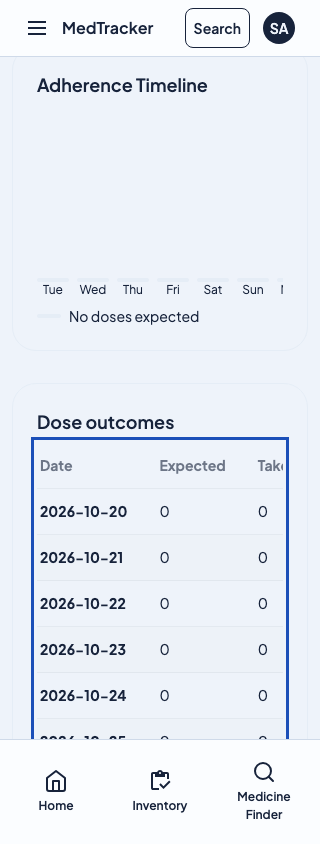
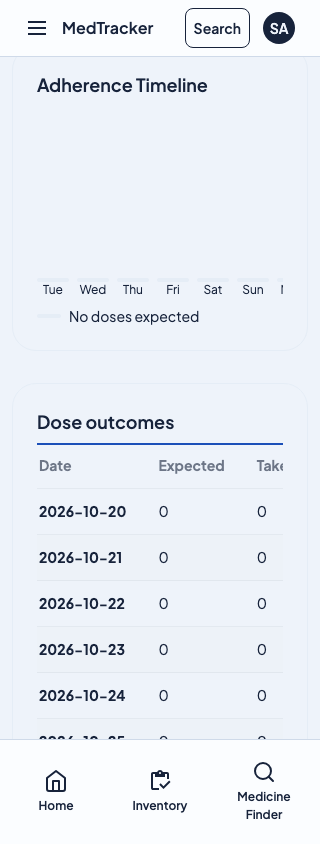
fix(ui): remove the outer table focus frame

diff --git a/assets/views/reports/index.html b/assets/views/reports/index.html
@@ -47,7 +47,7 @@
   </section>
   <section class="card bg-base-100 border border-base-300" aria-labelledby="daily-title">
     <div class="card-body"><h2 class="card-title" id="daily-title">{{ labels.reports.health_history.outcomes.title }}</h2>
-      <div class="overflow-x-auto" role="region" aria-labelledby="daily-title" tabindex="0"><table class="table table-zebra"><thead><tr><th scope="col">{{ labels.reports.health_history.outcomes.date }}</th><th scope="col">{{ labels.reports.health_history.outcomes.expected }}</th><th scope="col">{{ labels.reports.health_history.outcomes.taken }}</th><th scope="col">{{ labels.reports.health_history.outcomes.not_taken }}</th><th scope="col">{{ labels.reports.health_history.outcomes.unexplained_missed }}</th></tr></thead><tbody>{% for day in report.daily_outcomes %}<tr><th scope="row" class="whitespace-nowrap">{{ day.date }}</th><td>{{ day.expected }}</td><td>{{ day.actual }}</td><td>{{ day.not_taken }}</td><td>{{ day.unexplained_missed }}</td></tr>{% else %}<tr><td colspan="5">{{ labels.reports.health_history.empty_section }}</td></tr>{% endfor %}</tbody></table></div>
+      <div class="table-scroll overflow-x-auto" role="region" aria-labelledby="daily-title" tabindex="0"><table class="table table-zebra"><thead><tr><th scope="col">{{ labels.reports.health_history.outcomes.date }}</th><th scope="col">{{ labels.reports.health_history.outcomes.expected }}</th><th scope="col">{{ labels.reports.health_history.outcomes.taken }}</th><th scope="col">{{ labels.reports.health_history.outcomes.not_taken }}</th><th scope="col">{{ labels.reports.health_history.outcomes.unexplained_missed }}</th></tr></thead><tbody>{% for day in report.daily_outcomes %}<tr><th scope="row" class="whitespace-nowrap">{{ day.date }}</th><td>{{ day.expected }}</td><td>{{ day.actual }}</td><td>{{ day.not_taken }}</td><td>{{ day.unexplained_missed }}</td></tr>{% else %}<tr><td colspan="5">{{ labels.reports.health_history.empty_section }}</td></tr>{% endfor %}</tbody></table></div>
     </div>
   </section>
   {% if report.cycle_summaries | length > 0 %}<section class="card bg-base-100 border border-base-300" aria-labelledby="cycles-title"><div class="card-body"><h2 class="card-title" id="cycles-title">{{ labels.reports.health_history.cycles.title }}</h2><p>{{ labels.reports.health_history.cycles.description }}</p><div class="overflow-x-auto"><table class="table table-zebra"><thead><tr><th scope="col">{{ labels.reports.health_history.cycles.window }}</th><th scope="col">{{ labels.reports.health_history.medication_takes.person }}</th><th scope="col">{{ labels.reports.health_history.medication_takes.medication }}</th><th scope="col">{{ labels.reports.health_history.outcomes.expected }}</th><th scope="col">{{ labels.reports.health_history.outcomes.taken }}</th><th scope="col">{{ labels.reports.health_history.outcomes.not_taken }}</th><th scope="col">{{ labels.reports.health_history.outcomes.unexplained_missed }}</th></tr></thead><tbody>{% for row in report.cycle_summaries %}<tr><th scope="row">{{ row.window_starts_on }} – {{ row.window_ends_on }}</th><td>{{ row.person_name }}</td><td>{{ row.medication_name }}</td><td>{{ row.expected }}</td><td>{{ row.actual }}</td><td>{{ row.not_taken }}</td><td>{{ row.unexplained_missed }}</td></tr>{% endfor %}</tbody></table></div></div></section>{% endif %}

diff --git a/assets/static/css/app.css b/assets/static/css/app.css
@@ -36,6 +36,8 @@ body:has(.app-navigation-panel[open]) { overflow: hidden; }
 .palette-choice[aria-pressed="true"], [data-appearance-choice][aria-pressed="true"] { outline: 2px solid var(--ring); outline-offset: 2px; }
 .palette-swatch { display: block; width: 1.25rem; height: 1.25rem; border-radius: 50%; background: var(--palette-color); border: 1px solid var(--border-color); }
 :focus-visible { outline: 3px solid var(--ring); outline-offset: 3px; }
+.table-scroll:focus-visible { outline: none; box-shadow: inset 0 2px 0 var(--ring); }
+@media (forced-colors: active) { .table-scroll:focus-visible { outline: 2px solid Highlight; outline-offset: 0; } }
 .skip-link { position: absolute; left: 1rem; top: -5rem; z-index: 100; padding: 0.75rem; background: var(--card); color: var(--foreground); }
 .skip-link:focus { top: 1rem; }
 [hidden] { display: none !important; }

diff --git a/tests/browser/report_table_layout.rs b/tests/browser/report_table_layout.rs
@@ -32,6 +32,11 @@ async fn report_outcomes_keep_dates_readable_and_scroll_by_keyboard() {
                     return document.activeElement === region && (region.scrollWidth <= region.clientWidth || region.scrollLeft > 0);
                 }"#, None::<&()>).await.unwrap();
                 assert!(keyboard_access, "outcomes must be keyboard-scrollable at {size}");
+                let restrained_focus: bool = page.evaluate(r#"() => {
+                    const style = getComputedStyle(document.activeElement);
+                    return style.outlineStyle === 'none' && style.boxShadow !== 'none';
+                }"#, None::<&()>).await.unwrap();
+                assert!(restrained_focus, "keyboard focus must remain visible without framing the whole table at {size}");
                 page.evaluate::<(), bool>("() => { document.querySelector('[aria-labelledby=\"daily-title\"] [role=\"region\"]').scrollLeft = 0; document.getElementById('daily-title').scrollIntoView({block:'center'}); return true; }", None).await.unwrap();
                 harness::capture(page, &format!("report-outcomes-{size}")).await;
             }
